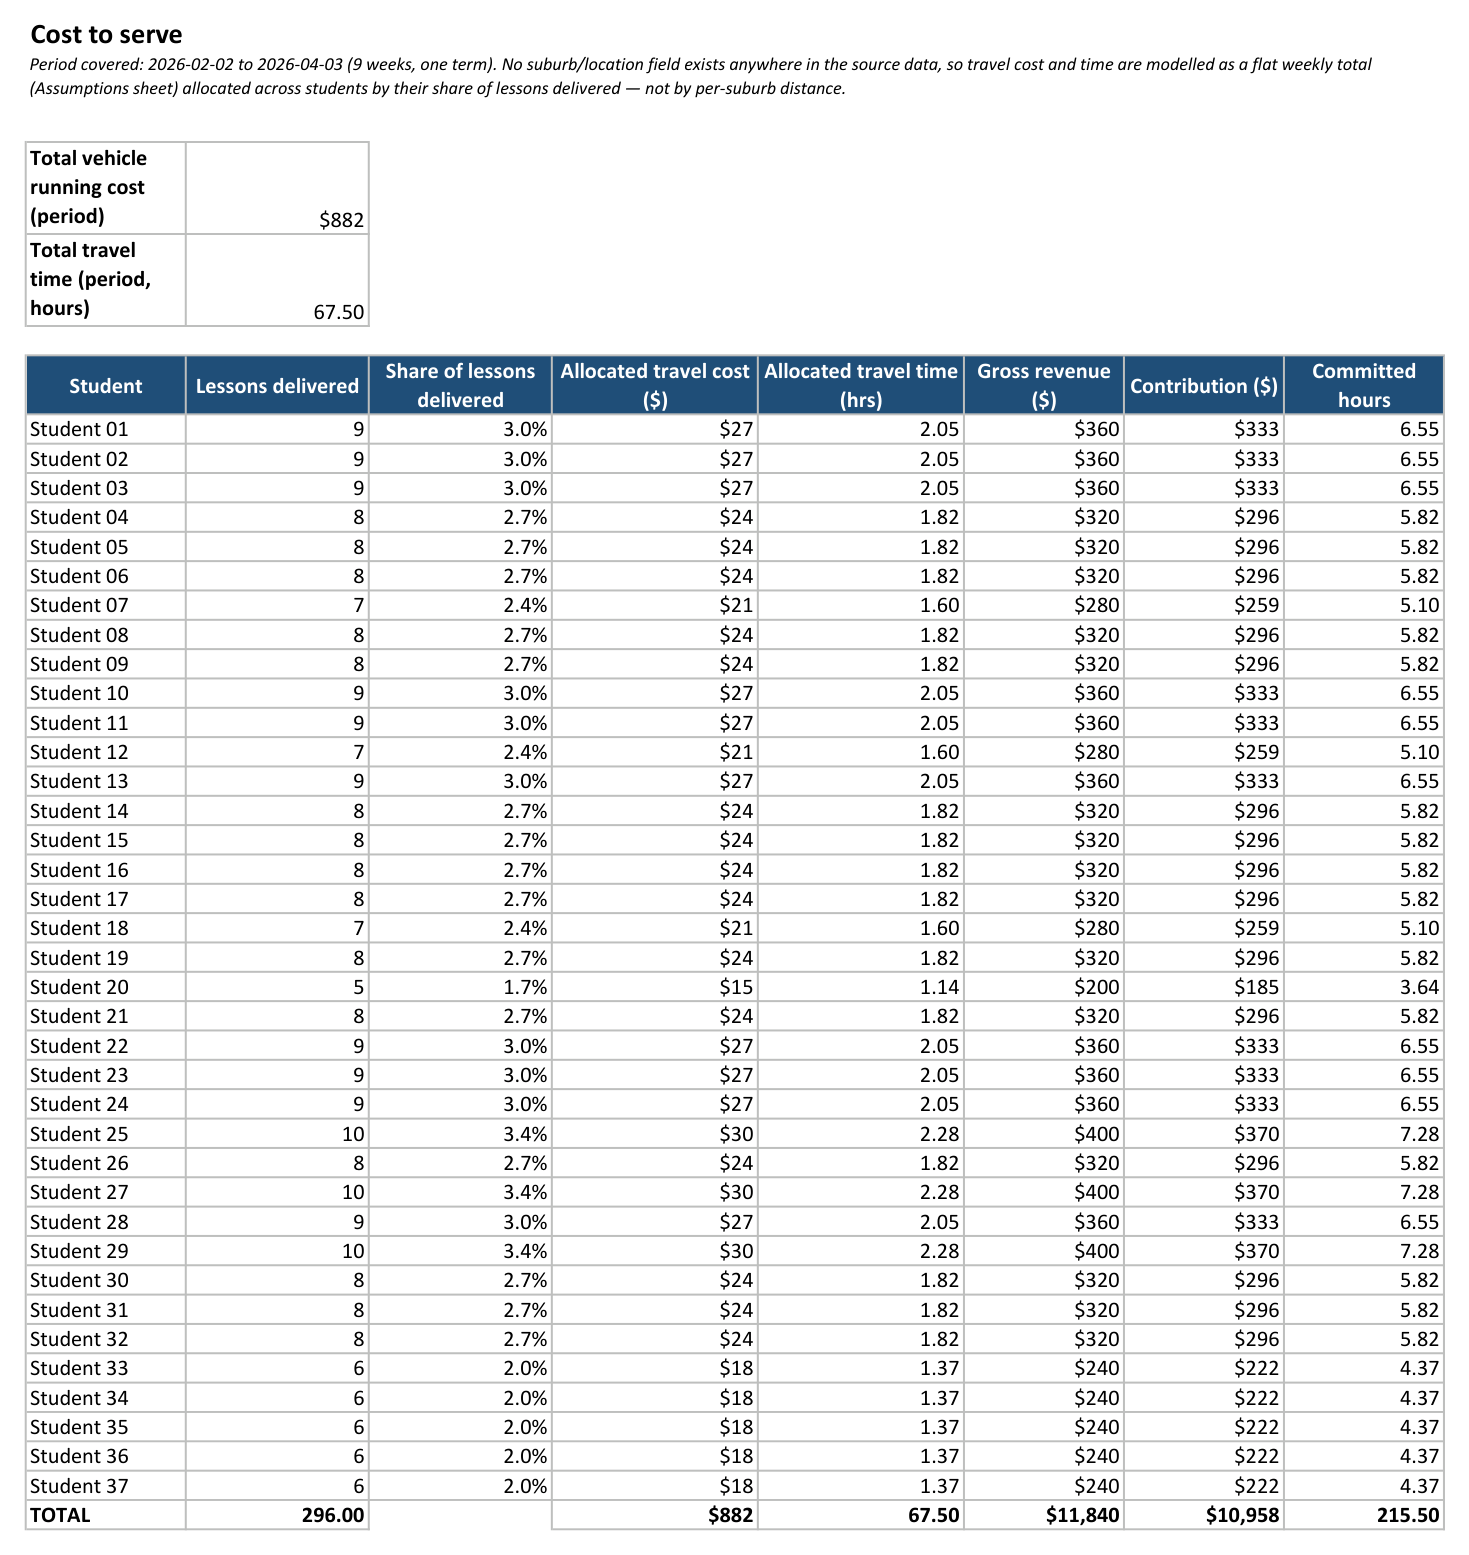
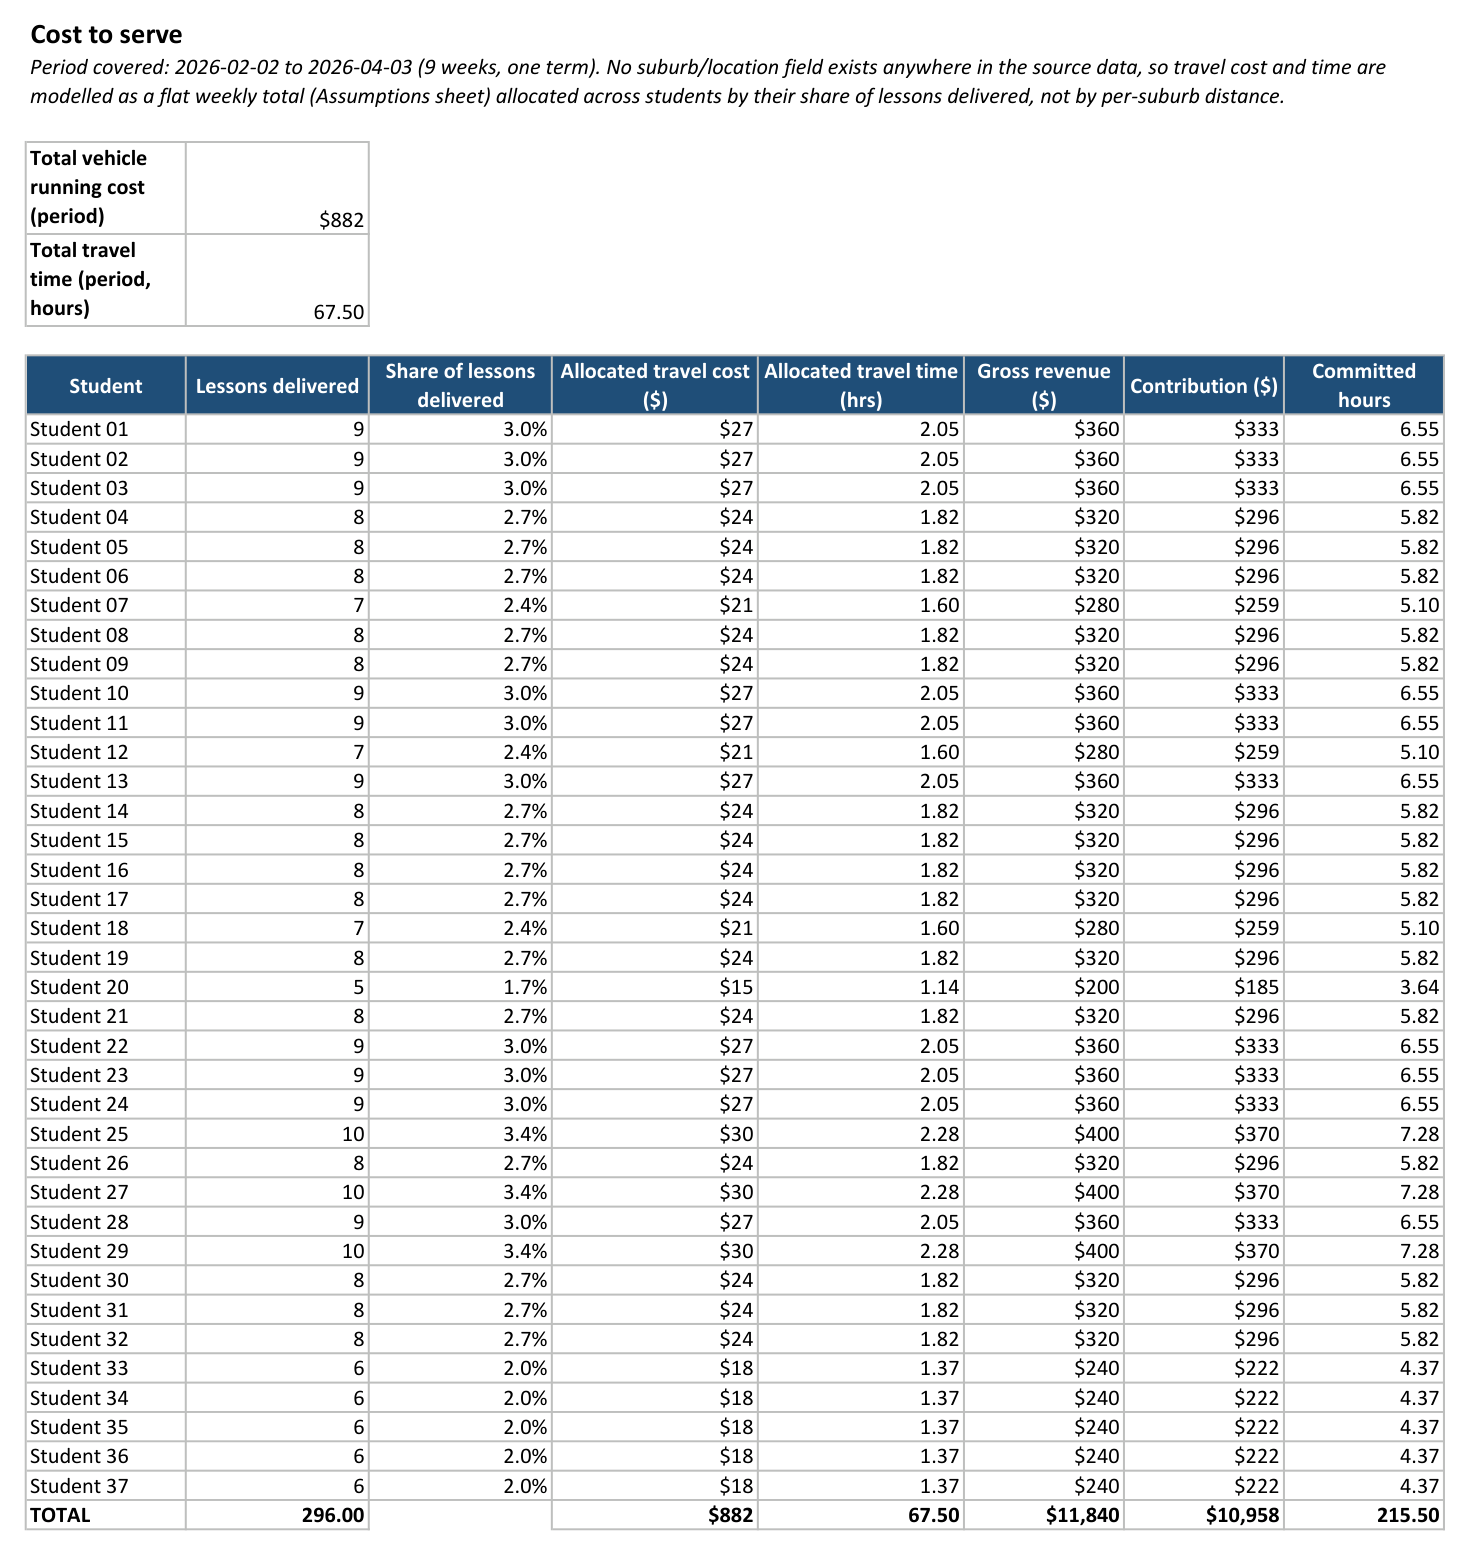
style: finish dash cleanup, fix bold/size drift, restyle P&L and Scenarios
- Convert remaining em/en dashes in workbook cell text (Assumptions,
  Cost to serve, Capacity, P&L, Scenarios) to plain punctuation.
- Standardize body text to one font size; fix a bug where sc() silently
  dropped bold=True whenever a font was also passed, leaving several
  subtotal/total rows (P&L, Scenarios) unintentionally not bold.
- Give the P&L sheet proper header-banner styling on both block titles
  and more breathing room between them; return actual row positions from
  build_pl instead of hardcoding them for Sensitivity's reference.
- Rebuild the Scenarios "Selected scenario" callout as a plain two-column
  label/value block instead of a merged cell with dead space.

Changed region(s): [[0.0, 0.0309, 0.9496, 0.0617]]

diff --git a/scripts/build_workbook.py b/scripts/build_workbook.py
@@ -27,16 +27,19 @@ WIND_UP_DATE = "2026-09-18"
 # row (HEADER_FONT/HEADER_FILL) keeps colour. BLUE/GREEN and the various
 # fills are retired to plain black / None rather than renamed, since that
 # keeps every existing font=BLUE / fill=YELLOW_FILL call site correct as-is.
-BLUE = Font(color="000000")
-BOLD_BLUE = Font(color="000000", bold=True)
-BLACK = Font(color="000000")
-GREEN = Font(color="000000")
-BOLD = Font(bold=True)
-BOLD_GREEN = Font(color="000000", bold=True)
+# BODY_SIZE is the one font size used everywhere except TITLE_FONT (sheet
+# titles are deliberately larger); every other font below sets it explicitly
+# so no cell falls back to an implicit, potentially-inconsistent default.
+BODY_SIZE = 11
+BLUE = Font(color="000000", size=BODY_SIZE)
+BOLD_BLUE = Font(color="000000", bold=True, size=BODY_SIZE)
+BLACK = Font(color="000000", size=BODY_SIZE)
+GREEN = Font(color="000000", size=BODY_SIZE)
+BOLD = Font(bold=True, size=BODY_SIZE)
 TITLE_FONT = Font(bold=True, size=14)
-SECTION_FONT = Font(bold=True, size=11, color="000000")
-NOTE_FONT = Font(italic=True, size=9, color="000000")
-HEADER_FONT = Font(bold=True, color="FFFFFF")
+SECTION_FONT = Font(bold=True, size=BODY_SIZE, color="000000")
+NOTE_FONT = Font(italic=True, size=BODY_SIZE, color="000000")
+HEADER_FONT = Font(bold=True, color="FFFFFF", size=BODY_SIZE)
 HEADER_FILL = PatternFill("solid", fgColor="1F4E78")
 YELLOW_FILL = None
 GREY_FILL = None
@@ -103,11 +106,11 @@ def build_readme(wb):
     ws.column_dimensions["B"].width = 90
 
     sc(ws, "A1", "Tutoring Business Financial Model", font=TITLE_FONT)
-    sc(ws, "A3", "As at:", bold=True)
+    sc(ws, "A3", "As at:")
     sc(ws, "B3", AS_AT_DATE)
-    sc(ws, "A4", "Business wound up:", bold=True)
+    sc(ws, "A4", "Business wound up:")
     sc(ws, "B4", f"{WIND_UP_DATE} (end of school term)")
-    sc(ws, "A5", "Student identities:", bold=True)
+    sc(ws, "A5", "Student identities:")
     sc(ws, "B5",
        "Pseudonymised. Every student appears as \"Student NN\"; no real name, "
        "parent name, email address, or address appears anywhere in this "
@@ -157,7 +160,7 @@ ASSUMPTIONS_SPEC = [
      "From data: flat $40 per 30-minute lesson across all 37 students "
      "(Portfolio Lesson Schedule extract, Term 1 2026).", False),
     ("row", "duration_min", "Standard lesson duration", 30, "min", False, INT_FMT,
-     "Confirmed by business owner, 2026-08-20 — not present in source data.", False),
+     "Confirmed by business owner, 2026-08-20. Not present in source data.", False),
     ("row", "hourly_rate", "Implied hourly rate", "={rate_per_lesson}/({duration_min}/60)",
      "$/hr", True, CURRENCY,
      "Derived: rate per lesson ÷ (duration ÷ 60).", False),
@@ -175,7 +178,7 @@ ASSUMPTIONS_SPEC = [
     ("row", "terms_per_year", "Terms per year", 4, "terms", False, INT_FMT,
      "Owner estimate.", False),
     ("row", "weeks_per_term", "Weeks per term", 9, "weeks", False, INT_FMT,
-     "Owner estimate — matches the 9 weekly blocks in the extracted schedule.", False),
+     "Owner estimate. Matches the 9 weekly blocks in the extracted schedule.", False),
     ("row", "working_weeks_per_year", "Working weeks per year",
      "={terms_per_year}*{weeks_per_term}", "weeks", True, INT_FMT,
      "Derived: terms per year × weeks per term.", False),
@@ -183,7 +186,7 @@ ASSUMPTIONS_SPEC = [
      "From data: 5 populated weekdays per week in the extract.", False),
     ("row", "max_lessons_per_week", "Max lessons per week (scheduling ceiling)", 37,
      "lessons", False, INT_FMT,
-     "Owner confirmed, 2026-08-20 — equals current scheduled lesson volume. "
+     "Owner confirmed, 2026-08-20. Equals current scheduled lesson volume. "
      "The business is already scheduled at its capacity ceiling; the gap to "
      "lessons actually delivered is show-up rate, not spare capacity.", True),
     ("row", "max_teachable_hours", "Max teachable hours per week",
@@ -194,7 +197,7 @@ ASSUMPTIONS_SPEC = [
 
     ("section", "Travel & Vehicle"),
     ("row", "travel_time_per_day", "Travel time per day", 1.5, "hrs", False, NUM1,
-     "Owner estimate — flat figure. No per-suburb location data exists "
+     "Owner estimate, flat figure. No per-suburb location data exists "
      "in the source, so travel can't be modelled by distance.", False),
     ("row", "travel_time_per_week", "Travel time per week",
      "={travel_time_per_day}*{working_days_per_week}", "hrs", True, NUM1,
@@ -224,12 +227,12 @@ ASSUMPTIONS_SPEC = [
      "fewer students. Drives the \"Selected scenario\" callout on the "
      "Scenarios sheet.", True),
     ("row", "scenario2_volume_mult", "Scenario 2: lesson volume multiplier", 1.30, "×",
-     False, NUM2, "Illustrative — adjust as needed. 30% more lesson volume "
+     False, NUM2, "Illustrative, adjust as needed. 30% more lesson volume "
      "at the current rate.", False),
     ("row", "scenario3_rate_mult", "Scenario 3: rate multiplier", 1.25, "×", False, NUM2,
-     "Illustrative — adjust as needed. A 25% rate rise.", False),
+     "Illustrative, adjust as needed. A 25% rate rise.", False),
     ("row", "scenario3_volume_mult", "Scenario 3: lesson volume multiplier", 0.85, "×",
-     False, NUM2, "Illustrative — adjust as needed. 15% fewer lessons at "
+     False, NUM2, "Illustrative, adjust as needed. 15% fewer lessons at "
      "the higher rate.", False),
 ]
 
@@ -274,7 +277,7 @@ def build_assumptions(wb):
         else:
             fill = PLACEHOLDER_FILL if flag == "placeholder" else (
                 YELLOW_FILL if flag else None)
-            sc(ws, value_addr, value, font=BOLD_BLUE, number_format=number_format,
+            sc(ws, value_addr, value, font=BLACK, number_format=number_format,
                fill=fill, border=True)
         sc(ws, f"C{row}", units, font=NOTE_FONT, border=True)
         sc(ws, f"D{row}", source, font=NOTE_FONT, wrap=True, border=True)
@@ -382,7 +385,7 @@ def build_cost_to_serve(wb, students, rbs_refs, a_refs, date_min, date_max):
                  "No suburb/location field exists anywhere in the source data, so "
                  "travel cost and time are modelled as a flat weekly total "
                  "(Assumptions sheet) allocated across students by their share "
-                 "of lessons delivered — not by per-suburb distance.",
+                 "of lessons delivered, not by per-suburb distance.",
        font=NOTE_FONT, wrap=True)
     ws.merge_cells("A2:H2")
     ws.row_dimensions[2].height = 30
@@ -447,7 +450,7 @@ def build_capacity(wb, a_refs, rbs_refs, cts_refs):
     sc(ws, "A2", "Max lessons/week is a hard ceiling on lesson-delivery time "
                  "only. Travel time is separate, additive time spent outside "
                  "it (owner already teaches at the scheduling ceiling), so it "
-                 "is not subtracted here — see Cost to serve for how travel "
+                 "is not subtracted here. See Cost to serve for how travel "
                  "time is treated as unpaid capacity consumed per student.",
        font=NOTE_FONT, wrap=True)
     ws.merge_cells("A2:C2")
@@ -459,18 +462,18 @@ def build_capacity(wb, a_refs, rbs_refs, cts_refs):
     rows = [
         ("max_lessons", "Max lessons per week (scheduling ceiling)", f"={A('max_lessons_per_week')}", INT_FMT, GREEN, ""),
         ("max_hours", "Max teachable hours per week", f"={A('max_teachable_hours')}", NUM1, GREEN, ""),
-        ("travel_hours", "Travel time per week (hrs, additive)", f"={A('travel_time_per_week')}", NUM1, GREEN, "Not subtracted from teaching ceiling — see note above."),
-        ("total_commitment", "Total weekly time commitment at full capacity", "=B5+B6", NUM1, BLACK, "Teaching ceiling + travel time — the real total workload if fully booked."),
+        ("travel_hours", "Travel time per week (hrs, additive)", f"={A('travel_time_per_week')}", NUM1, GREEN, "Not subtracted from teaching ceiling. See note above."),
+        ("total_commitment", "Total weekly time commitment at full capacity", "=B5+B6", NUM1, BLACK, "Teaching ceiling + travel time: the real total workload if fully booked."),
         (None, None, None, None, None, None),
         ("actual_hours", "Actual hours delivered/week (avg)", f"='Revenue by student'!$D${rbs_refs['total_row']}/{A('weeks_per_term')}", NUM2, GREEN, "Averaged over the 9-week extract."),
         ("actual_lessons", "Actual lessons delivered/week (avg)", f"='Revenue by student'!$C${rbs_refs['total_row']}/{A('weeks_per_term')}", NUM2, GREEN, ""),
         ("utilisation", "Utilisation (actual hrs ÷ max teachable hrs)", "=IFERROR(B9/B5,0)", PCT1, BLACK, "How close to the scheduling ceiling the business ran."),
         (None, None, None, None, None, None),
-        ("scheduled_lessons", "Scheduled lessons/week (avg)", f"='Revenue by student'!$B${rbs_refs['total_row']}/{A('weeks_per_term')}", NUM2, GREEN, "Already equal to the max — see note below."),
+        ("scheduled_lessons", "Scheduled lessons/week (avg)", f"='Revenue by student'!$B${rbs_refs['total_row']}/{A('weeks_per_term')}", NUM2, GREEN, "Already equal to the max. See note below."),
         ("showup_rate", "Show-up rate (delivered ÷ scheduled)", "=IFERROR(B10/B13,0)", PCT1, BLACK, "Scheduled already sits at the max lessons/week ceiling, so this equals utilisation above: the constraint here is no-shows/cancellations, not unfilled slots."),
         (None, None, None, None, None, None),
         ("ceiling_revenue", "Ceiling annual revenue (if every slot delivered)", f"=B5*{A('working_weeks_per_year')}*{A('hourly_rate')}", CURRENCY, GREEN, "Max teachable hrs × working weeks/yr × hourly rate."),
-        ("actual_pace", "Actual annualised revenue pace", f"={RBS_TOT}/{A('weeks_per_term')}*{A('working_weeks_per_year')}", CURRENCY, GREEN, "Extrapolated run-rate, NOT an actual full-year figure — the business wound up ~18 Sept 2026."),
+        ("actual_pace", "Actual annualised revenue pace", f"={RBS_TOT}/{A('weeks_per_term')}*{A('working_weeks_per_year')}", CURRENCY, GREEN, "Extrapolated run-rate, NOT an actual full-year figure; the business wound up ~18 Sept 2026."),
     ]
 
     r = 4
@@ -500,7 +503,8 @@ def build_pl(wb, a_refs, rbs_refs, cts_refs):
 
     A = lambda k: f"Assumptions!{a_refs[k]}"
 
-    sc(ws, "A3", "Period actuals (9 weeks, from the extract)", font=SECTION_FONT, fill=GREY_FILL)
+    sc(ws, "A3", "Period actuals (9 weeks, from the extract)")
+    style_header_row(ws, 3, 1, 3)
     ws.merge_cells("A3:C3")
     labels = [
         ("Gross revenue", f"='Revenue by student'!${'E'}${rbs_refs['total_row']}", GREEN, ""),
@@ -508,21 +512,23 @@ def build_pl(wb, a_refs, rbs_refs, cts_refs):
         ("Net operating income", "=B4+B5", BLACK, ""),
         ("Super provision", f"=B6*{A('super_rate')}", GREEN, ""),
         ("Taxable income after super", "=B6-B7", BLACK, ""),
-        ("Tax provision", f"=B8*{A('tax_rate')}", GREEN, "ESTIMATE only — see Assumptions sheet note."),
+        ("Tax provision", f"=B8*{A('tax_rate')}", GREEN, "ESTIMATE only. See Assumptions sheet note."),
         ("Net income (period)", "=B6-B7-B9", BLACK, ""),
     ]
     r = 4
     for label, formula, font, note in labels:
-        sc(ws, f"A{r}", label, border=True, bold=(label in ("Net operating income", "Net income (period)")))
-        sc(ws, f"B{r}", formula, font=font, number_format=CURRENCY, border=True,
-           bold=(label in ("Net operating income", "Net income (period)")))
+        is_total = label in ("Net operating income", "Net income (period)")
+        sc(ws, f"A{r}", label, border=True, bold=is_total)
+        sc(ws, f"B{r}", formula, font=(BOLD if is_total else font), number_format=CURRENCY, border=True)
         sc(ws, f"C{r}", note, font=NOTE_FONT, wrap=True, border=True)
         r += 1
 
-    r += 1
-    sc(ws, f"A{r}", "Annualised run-rate (extrapolated — NOT an actual full-year "
-                     "figure; the business wound up ~18 Sept 2026)", font=SECTION_FONT, fill=GREY_FILL)
+    r += 2
+    sc(ws, f"A{r}", "Annualised run-rate (extrapolated, NOT an actual full-year "
+                     "figure; the business wound up ~18 Sept 2026)")
+    style_header_row(ws, r, 1, 3)
     ws.merge_cells(f"A{r}:C{r}")
+    ws.row_dimensions[r].height = 30
     r += 1
     sc(ws, f"A{r}", "Annualisation factor (working weeks/yr ÷ weeks/term)", border=True, wrap=True)
     sc(ws, f"B{r}", f"={A('working_weeks_per_year')}/{A('weeks_per_term')}", font=GREEN,
@@ -535,12 +541,13 @@ def build_pl(wb, a_refs, rbs_refs, cts_refs):
                   "Super provision", "Taxable income after super", "Tax provision",
                   "Net income (annualised)"]:
         period_row = 4 + (r - ann_start)
-        sc(ws, f"A{r}", label, border=True, bold=(label in ("Net operating income", "Net income (annualised)")))
-        sc(ws, f"B{r}", f"=B{period_row}*$B${factor_row}", font=BLACK, number_format=CURRENCY, border=True,
-           bold=(label in ("Net operating income", "Net income (annualised)")))
+        is_total = label in ("Net operating income", "Net income (annualised)")
+        sc(ws, f"A{r}", label, border=True, bold=is_total)
+        sc(ws, f"B{r}", f"=B{period_row}*$B${factor_row}", font=(BOLD if is_total else BLACK),
+           number_format=CURRENCY, border=True)
         r += 1
 
-    return ws
+    return ws, ann_start, ann_start + 1
 
 
 def build_scenarios(wb, a_refs, capacity_refs):
@@ -553,12 +560,12 @@ def build_scenarios(wb, a_refs, capacity_refs):
     sc(ws, "A1", "Scenarios", font=TITLE_FONT)
     ws.merge_cells("A1:D1")
     sc(ws, "A2", "All three columns are live formulas driven by the "
-                 "multipliers on the Assumptions sheet — not separate "
+                 "multipliers on the Assumptions sheet, not separate "
                  "copied models. Vehicle/travel cost is held constant across "
                  "scenarios: there's no distance-based driver in the data to "
                  "scale it with lesson volume.", font=NOTE_FONT, wrap=True)
     ws.merge_cells("A2:D2")
-    ws.row_dimensions[2].height = 30
+    ws.row_dimensions[2].height = 45
 
     header_row = 4
     sc(ws, f"A{header_row}", "")
@@ -587,7 +594,7 @@ def build_scenarios(wb, a_refs, capacity_refs):
     sc(ws, f"A{r}", "Annualised revenue ($)", border=True, bold=True)
     for col in "BCD":
         sc(ws, f"{col}{r}", f"={col}{lessons_row}*{A('working_weeks_per_year')}*{col}{rate_row}",
-           font=BLACK, number_format=CURRENCY, border=True, bold=True)
+           font=BOLD, number_format=CURRENCY, border=True)
 
     r += 1
     cost_row = r
@@ -600,7 +607,7 @@ def build_scenarios(wb, a_refs, capacity_refs):
     noi_row = r
     sc(ws, f"A{r}", "Net operating income ($)", border=True, bold=True)
     for col in "BCD":
-        sc(ws, f"{col}{r}", f"={col}{rev_row}-{col}{cost_row}", font=BLACK, number_format=CURRENCY, border=True, bold=True)
+        sc(ws, f"{col}{r}", f"={col}{rev_row}-{col}{cost_row}", font=BOLD, number_format=CURRENCY, border=True)
 
     r += 1
     super_row = r
@@ -625,26 +632,22 @@ def build_scenarios(wb, a_refs, capacity_refs):
     sc(ws, f"A{r}", "Net income (annualised, $)", border=True, bold=True)
     for col in "BCD":
         sc(ws, f"{col}{r}", f"={col}{noi_row}-{col}{super_row}-{col}{tax_row}",
-           font=BLACK, number_format=CURRENCY, border=True, bold=True)
+           font=BOLD, number_format=CURRENCY, border=True)
 
+    # Selected-scenario callout: a plain two-column (label | value) summary,
+    # matching the "Total vehicle running cost" style callout on Cost to
+    # serve -- not spanning C:D, since merging empty cells into the value
+    # box just leaves dead space rather than a deliberate-looking table.
     r += 2
     sc(ws, f"A{r}", "Selected scenario (Assumptions!scenario_switch)",
        bold=True, border=True, wrap=True)
     sc(ws, f"B{r}", f'=CHOOSE({A("scenario_switch")},B{header_row},C{header_row},D{header_row})',
-       font=GREEN, border=True)
-    ws[f"C{r}"].border = BOX
-    ws[f"D{r}"].border = BOX
-    ws.merge_cells(f"B{r}:D{r}")
+       font=BLACK, border=True)
     ws.row_dimensions[r].height = 30
     r += 1
-    sc(ws, f"A{r}", "Selected scenario net income ($)",
-       bold=True, border=True, wrap=True)
+    sc(ws, f"A{r}", "Selected scenario net income ($)", bold=True, border=True, wrap=True)
     sc(ws, f"B{r}", f'=CHOOSE({A("scenario_switch")},B{net_row},C{net_row},D{net_row})',
-       font=GREEN, number_format=CURRENCY, border=True, bold=True)
-    ws[f"C{r}"].border = BOX
-    ws[f"D{r}"].border = BOX
-    ws.merge_cells(f"B{r}:D{r}")
-    ws.row_dimensions[r].height = 30
+       font=BOLD, number_format=CURRENCY, border=True)
 
     return ws
 
@@ -716,11 +719,10 @@ def main():
     _, rbs_refs = build_revenue_by_student(wb, students, (data_first, data_last))
     _, cts_refs = build_cost_to_serve(wb, students, rbs_refs, a_refs, date_min, date_max)
     _, capacity_refs = build_capacity(wb, a_refs, rbs_refs, cts_refs)
-    pl_ws = build_pl(wb, a_refs, rbs_refs, cts_refs)
+    pl_ws, pl_annual_revenue_row, pl_annual_cost_row = build_pl(wb, a_refs, rbs_refs, cts_refs)
     scenarios_ws = build_scenarios(wb, a_refs, capacity_refs)
-    # P&L annualised block: header row, factor row, then a 7-row waterfall ->
-    # Gross revenue is the first row of that waterfall, cost is the second.
-    sensitivity_ws = build_sensitivity(wb, a_refs, pl_annual_revenue_row=14, pl_annual_cost_row=15)
+    sensitivity_ws = build_sensitivity(
+        wb, a_refs, pl_annual_revenue_row=pl_annual_revenue_row, pl_annual_cost_row=pl_annual_cost_row)
 
     OUT_PATH.parent.mkdir(parents=True, exist_ok=True)
     wb.save(OUT_PATH)
